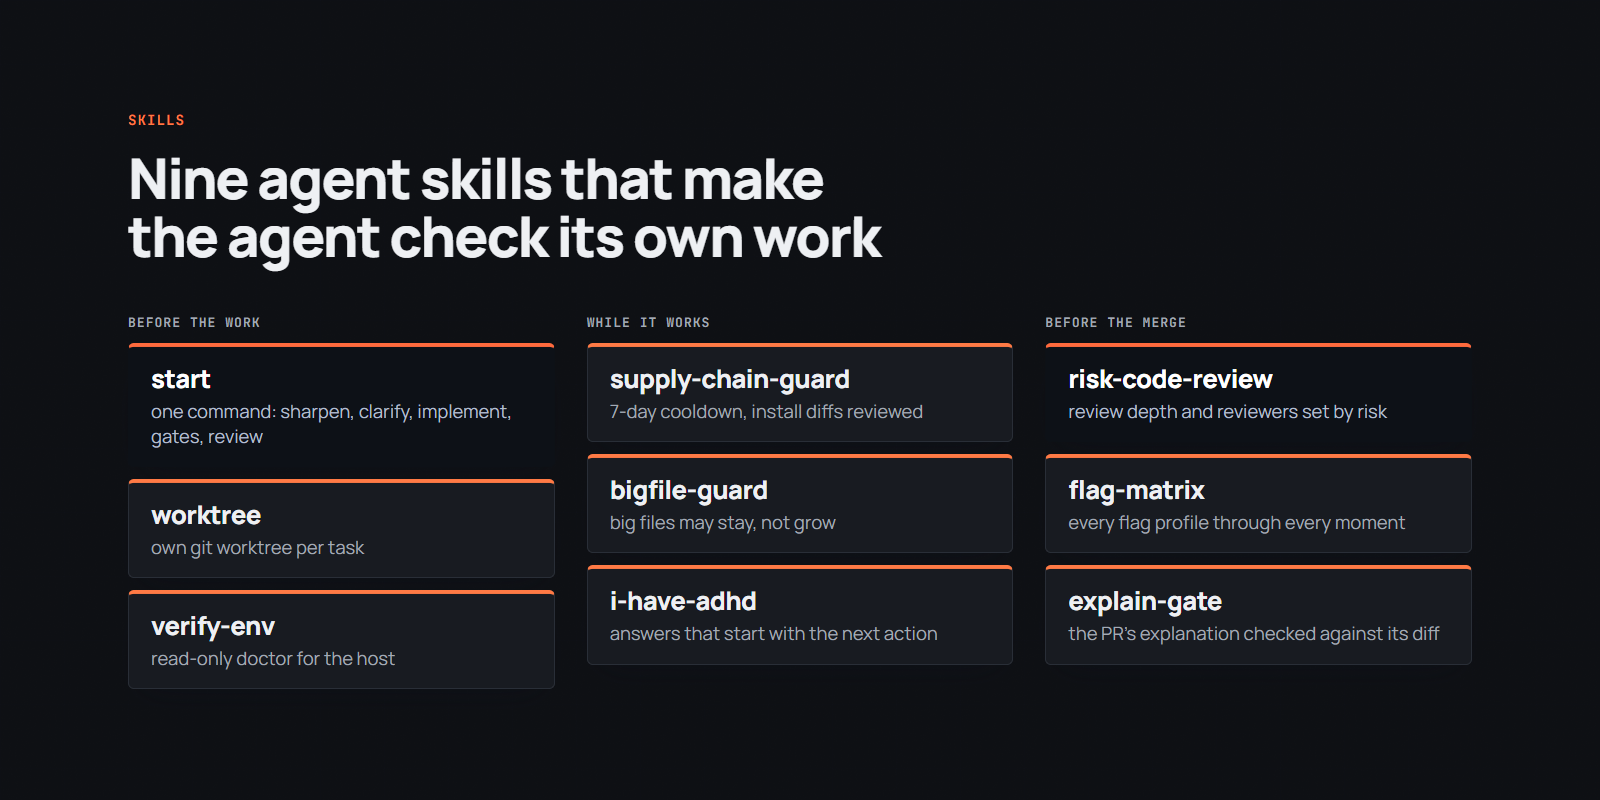
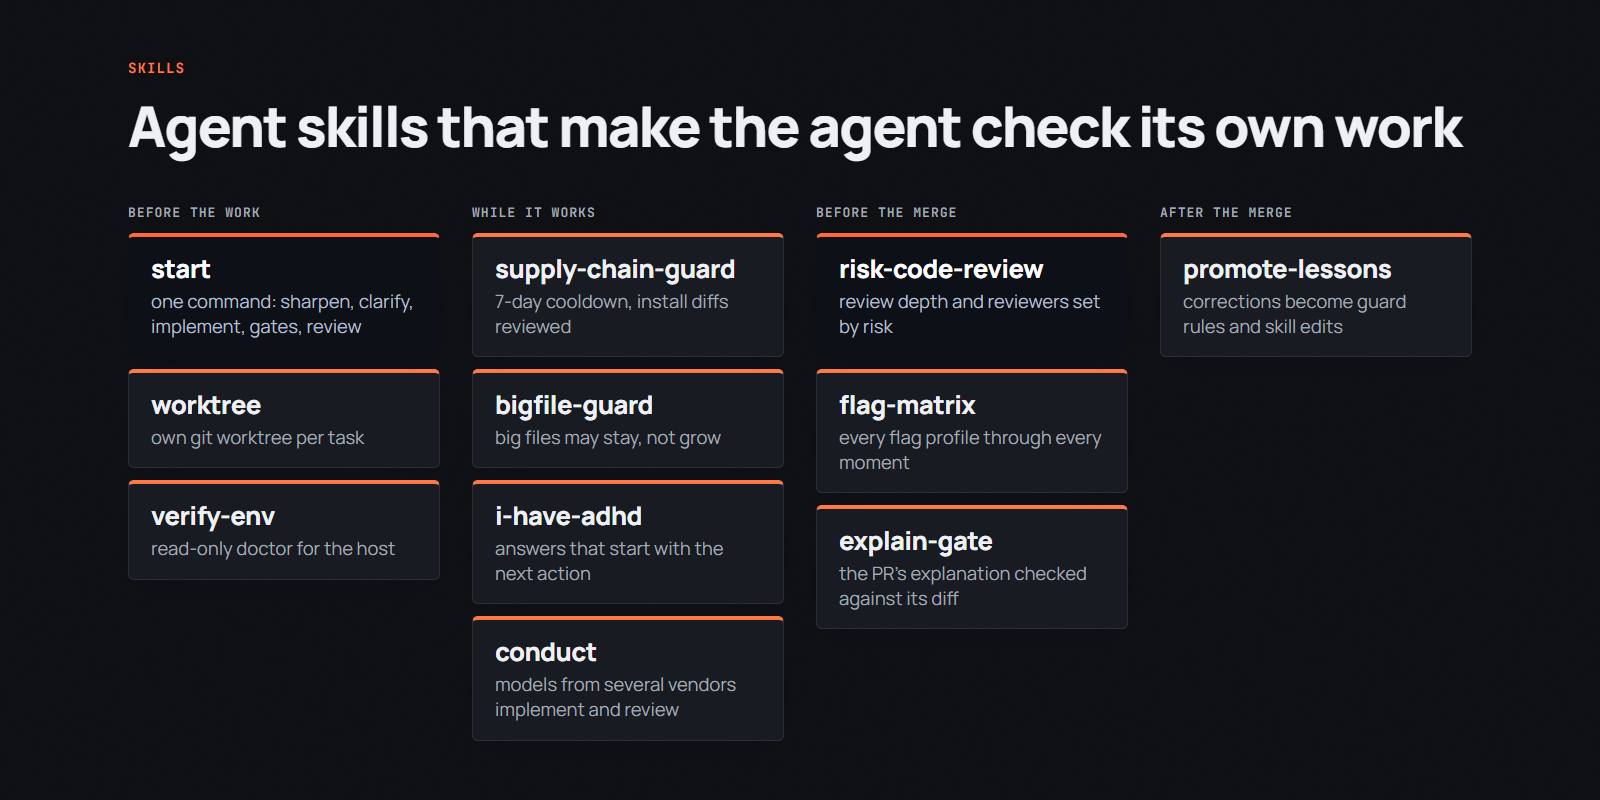
docs: list all 11 skills in the README figure and guard the list in CI
The overview figure and its alt text still said nine skills after
conduct and promote-lessons landed. The heading drops the count, the
skills badge becomes a version badge, and promote-lessons gets an
"After the merge" column and table section.

scripts/skills-listed.test.mjs fails when a skill folder has no README
row, no tile in the overview figure, or a description the plugin
loader cannot parse.

Changed region(s): [[0.0625, 0.125, 0.9375, 0.9062], [0.25, 0.5938, 0.3125, 0.625], [0.0625, 0.0625, 0.125, 0.0938]]

diff --git a/docs/figures/readme.src.html b/docs/figures/readme.src.html
@@ -270,9 +270,10 @@
   .slide--photo .title-grid { position: relative; }
   .slide--photo .frame { border-color: rgba(255,255,255,.7); border-width: 2px; }
   @media (prefers-color-scheme: dark) { :root { color-scheme: dark; --bg: #0f1115; --surface: #181b21; --border: #2a2f37; --border-bright: #6b7380; --text: #eef0f3; --text-dim: #a3aab4; --accent: #ff7a45; --accent-dim: rgba(255,122,69,.14); --ok: #6cc492; --risk: #f57fa2; } .chat { border: 1px solid var(--border-bright); } }
-  .groups { display: grid; grid-template-columns: repeat(3, 1fr); gap: clamp(16px, 2vw, 32px); margin-top: clamp(20px, 3.5vh, 40px); }
+  .groups { display: grid; grid-template-columns: repeat(4, 1fr); gap: clamp(16px, 2vw, 32px); margin-top: clamp(20px, 3.5vh, 40px); }
   .groups > div { display: grid; gap: 12px; align-content: start; }
   .groups .tile b { font-size: clamp(20px, 1.6vw, 26px); }
+  [data-figure="skills"] .slide__heading { max-width: none; }
 </style>
 </head>
 <body>
@@ -351,7 +352,7 @@
 
   <section class="slide" data-figure="skills">
     <p class="slide__label">skills</p>
-    <h2 class="slide__heading">Nine agent skills that make the agent check its own work</h2>
+    <h2 class="slide__heading">Agent skills that make the agent check its own work</h2>
     <div class="groups">
       <div>
         <p class="case__trigger">Before the work</p>
@@ -364,12 +365,17 @@
         <div class="tile"><b>supply-chain-guard</b><span>7-day cooldown, install diffs reviewed</span></div>
         <div class="tile"><b>bigfile-guard</b><span>big files may stay, not grow</span></div>
         <div class="tile"><b>i-have-adhd</b><span>answers that start with the next action</span></div>
+        <div class="tile"><b>conduct</b><span>models from several vendors implement and review</span></div>
       </div>
       <div>
         <p class="case__trigger">Before the merge</p>
         <div class="tile tile--key"><b>risk-code-review</b><span>review depth and reviewers set by risk</span></div>
         <div class="tile"><b>flag-matrix</b><span>every flag profile through every moment</span></div>
         <div class="tile"><b>explain-gate</b><span>the PR's explanation checked against its diff</span></div>
+      </div>
+      <div>
+        <p class="case__trigger">After the merge</p>
+        <div class="tile"><b>promote-lessons</b><span>corrections become guard rules and skill edits</span></div>
       </div>
     </div>
   </section>

diff --git a/README.md b/README.md
@@ -3,14 +3,14 @@
 <p align="center">
   <picture>
     <source media="(prefers-color-scheme: dark)" srcset="docs/assets/skills-dark.png">
-    <img alt="Nine agent skills that make the agent check its own work. Before the work: start, worktree, verify-env. While it works: supply-chain-guard, bigfile-guard, i-have-adhd. Before the merge: risk-code-review, flag-matrix, explain-gate." src="docs/assets/skills-light.png" width="880">
+    <img alt="Agent skills that make the agent check its own work. Before the work: start, worktree, verify-env. While it works: supply-chain-guard, bigfile-guard, i-have-adhd, conduct. Before the merge: risk-code-review, flag-matrix, explain-gate. After the merge: promote-lessons." src="docs/assets/skills-light.png" width="880">
   </picture>
 </p>
 
 <p align="center">
   <a href="https://github.com/MarcinSufa/skills/actions/workflows/ci.yml"><img alt="CI" src="https://github.com/MarcinSufa/skills/actions/workflows/ci.yml/badge.svg"></a>
   <a href="LICENSE"><img alt="License: MIT" src="https://img.shields.io/badge/license-MIT-blue.svg"></a>
-  <img alt="11 skills" src="https://img.shields.io/badge/skills-11-orange.svg">
+  <a href="https://github.com/MarcinSufa/skills/tags"><img alt="Version" src="https://img.shields.io/github/v/tag/MarcinSufa/skills?label=version&sort=semver"></a>
 </p>
 
 Agent skills for Claude Code (they also work in other agents that read `SKILL.md` folders). Each skill folder has a `README.md` for people and a `SKILL.md` for the agent. Upstream skills credit their authors; "own" means written here.
@@ -31,7 +31,6 @@ Agent skills for Claude Code (they also work in other agents that read `SKILL.md
 | [supply-chain-guard](skills/supply-chain-guard/README.md) | Release cooldown for package managers plus a hook that diffs what an install would add | own |
 | [bigfile-guard](skills/bigfile-guard/README.md) | Flags staged text files over about 5000 tokens that are new or grew, so agents can read files whole | own |
 | [i-have-adhd](skills/i-have-adhd/README.md) | Answers shaped for an ADHD reader: next action first, numbered steps, no filler | adapted from ayghri (MIT) |
-| [promote-lessons](skills/promote-lessons/README.md) | Turns queued corrections into guard-hook rules and skill edits, each approved and tested | own |
 
 ### Before the merge
 
@@ -40,6 +39,12 @@ Agent skills for Claude Code (they also work in other agents that read `SKILL.md
 | [risk-code-review](skills/risk-code-review/README.md) | Code review whose depth and reviewers follow the risk of the change | own |
 | [flag-matrix](skills/flag-matrix/README.md) | Tests a change that reads a flag or config setting across every flag profile and read moment | own |
 | [explain-gate](skills/explain-gate/README.md) | Checks a PR's What / Why / Risk explanation against its diff | own |
+
+### After the merge
+
+| Skill | What it does | Upstream |
+| --- | --- | --- |
+| [promote-lessons](skills/promote-lessons/README.md) | Turns queued corrections into guard-hook rules and skill edits, each approved and tested | own |
 
 ## Also recommended
 
